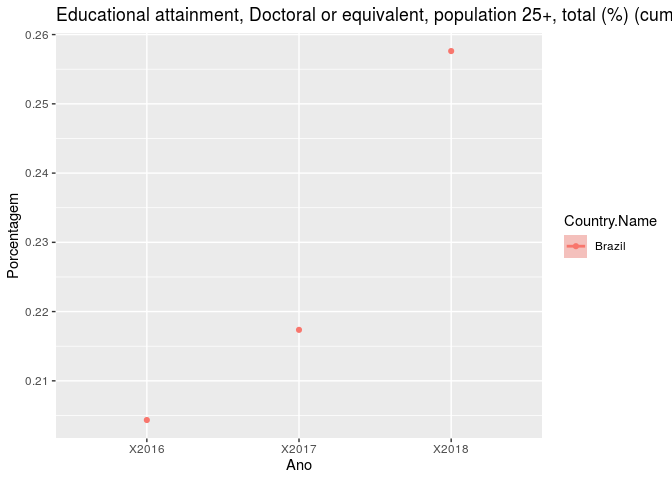
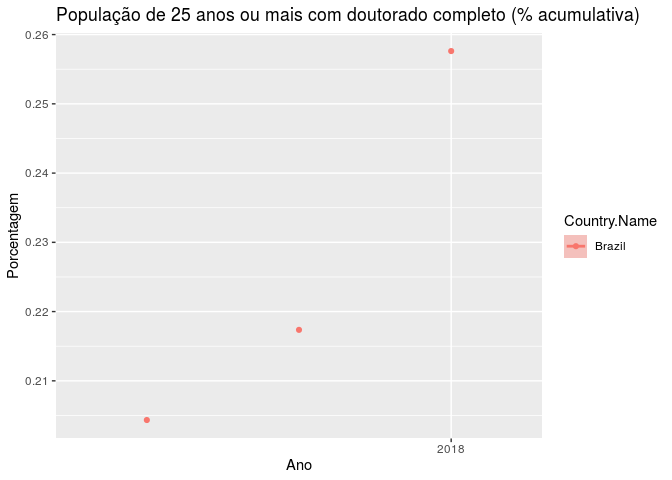
Entrega final

diff --git a/relatorio-trab-final.md b/relatorio-trab-final.md
@@ -1,7 +1,7 @@
 Trabalho Final - R
 ================
 Grupo 3 - Bruno Volpini, Dimitri Assis e Lucas Magesty
-15/07/2020
+05/08/2020
 
 # OBJETIVOS DO DESENVOLVIMENTO SUSTENTÁVEL: ANÁLISE DOS DADOS DO BANCO MUNDIAL
 
@@ -130,28 +130,28 @@ Brasil, América Latina e Mundo.
 
   - **Educação (ODS 4)**: o Brasil, comparado com LatAm e Mundo,
     desenvolveu sua educação nos últimos 30 anos? Se sim, sob quais
-    aspectos?
+    aspectos? (*nome original dos indicadores, em inglês*)
 
 <!-- end list -->
 
-1)  **Children out of school (% of primary school age)**
-2)  **Literacy rate, adult total (% of people ages 15 and above)**
-3)  **Literacy rate, youth (ages 15-24), gender parity index (GPI)**
-4)  **Primary completion rate, female (% of relevant age group)**
-5)  **Primary completion rate, male (% of relevant age group)**
-6)  **Primary completion rate, total (% of relevant age group)**
-7)  **Primary education, duration (years)**
-8)  **Children in employment, total (% of children ages 7-14)**
-9)  **Educational attainment, at least Bachelor’s or equivalent,
-    population 25+, total (%) (cumulative)**
-10) **Educational attainment, at least completed lower secondary,
-    population 25+, total (%) (cumulative)**
-11) **Educational attainment, at least completed post-secondary,
-    population 25+, total (%) (cumulative)**
-12) **Educational attainment, at least Master’s or equivalent,
-    population 25+, total (%) (cumulative)**
-13) **Educational attainment, Doctoral or equivalent, population 25+,
-    total (%) (cumulative)**
+1)  *Children out of school (% of primary school age)*
+2)  *Literacy rate, adult total (% of people ages 15 and above)*
+3)  *Literacy rate, youth (ages 15-24), gender parity index (GPI)*
+4)  *Primary completion rate, female (% of relevant age group)*
+5)  *Primary completion rate, male (% of relevant age group)*
+6)  *Primary completion rate, total (% of relevant age group)*
+7)  *Primary education, duration (years)*
+8)  *Children in employment, total (% of children ages 7-14)*
+9)  *Educational attainment, at least Bachelor’s or equivalent,
+    population 25+, total (%) (cumulative)*
+10) *Educational attainment, at least completed lower secondary,
+    population 25+, total (%) (cumulative)*
+11) *Educational attainment, at least completed post-secondary,
+    population 25+, total (%) (cumulative)*
+12) *Educational attainment, at least Master’s or equivalent, population
+    25+, total (%) (cumulative)*
+13) *Educational attainment, Doctoral or equivalent, population 25+,
+    total (%) (cumulative)*
 
 ## Análise Exploratória
 
@@ -182,3 +182,37 @@ Brasil, América Latina e Mundo.
 ![](relatorio-trab-final_files/figure-gfm/unnamed-chunk-15-1.png)<!-- -->
 
 ## Considerações finais
+
+Após análise dos 13 indicadores de educação da base mundial de
+indicadores dos Objetivos de Desenvolvimento Sustentável do Banco
+Mundial, o grupo chegou aos seguintes resultados:
+
+1)  O Brasil, desde 1990, alcançou, em média, uma **melhoria** em seus
+    indicadores. A população tem ficado mais tempo na escola, finalizado
+    sua educação básica, fundamental e média, além de ter completado a
+    graduação, o mestrado e o doutorado.
+
+2)  Outro ponto importante: as crianças ficam, e ficam mais tempo na
+    escola - além do trabalho infantil ter caído vertiginosamente nos
+    anos de coleta dos dados.
+
+3)  Em comparação com a América Latina e Mundo ( *Nota: Alguns dos dados
+    não possuem coleta nas três regiões simultaneamente* ), o Brasil
+    possui *mais crianças na escola* - porém, os indicadores de adultos
+    alfabetizados ainda são piores que os da América Latina como um
+    todo, e de duração da educação básica é pior que o mundial.
+
+4)  A análise do grupo foi prejudicada pelo fato de não haver coleta de
+    todos os dados necessários - há alguns que somente o Brasil possui;
+    outros, que somente a América Latina ou mundo. Entretanto, em que
+    pese os desafios enfrentados, nossa conclusão é a de que **o Brasil
+    tem se desenvolvido em sua educação - mas ainda temos um longo
+    caminho a percorrer.**
+
+## Referências
+
+[BASE DE ODS DO BANCO
+MUNDIAL?](https://datacatalog.worldbank.org/dataset/sustainable-development-goals/)
+
+[O QUE É
+ODS?](https://www.un.org/sustainabledevelopment/sustainable-development-goals/)
